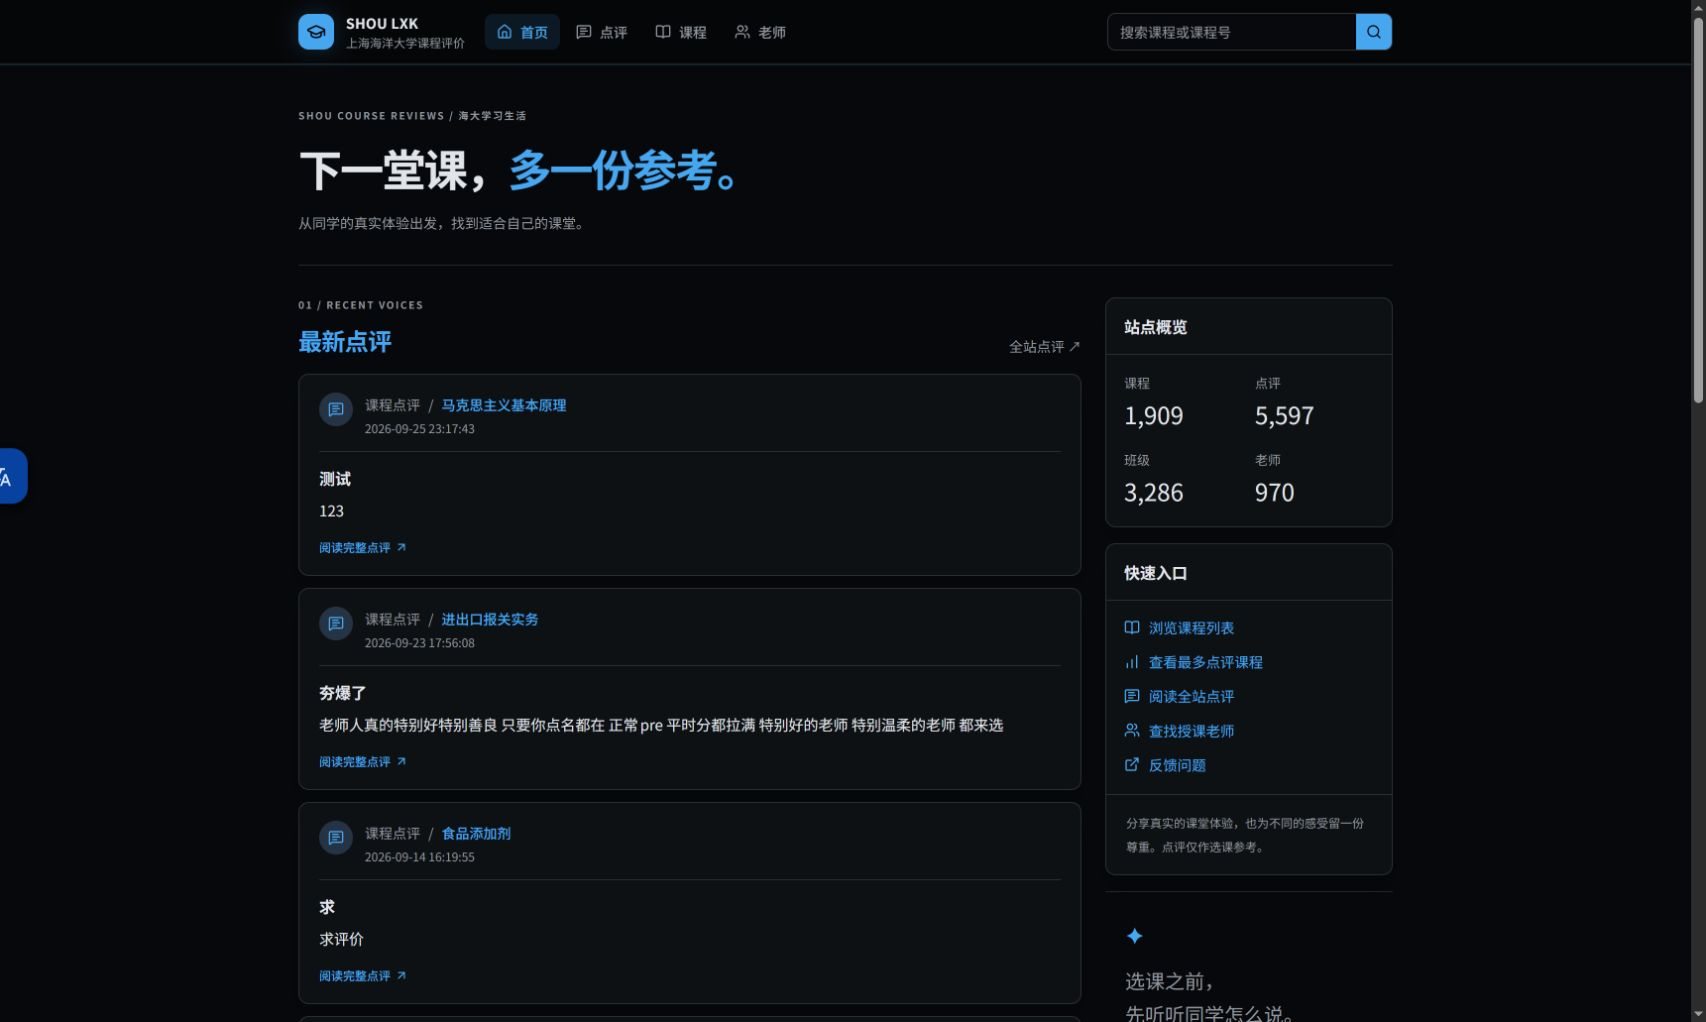
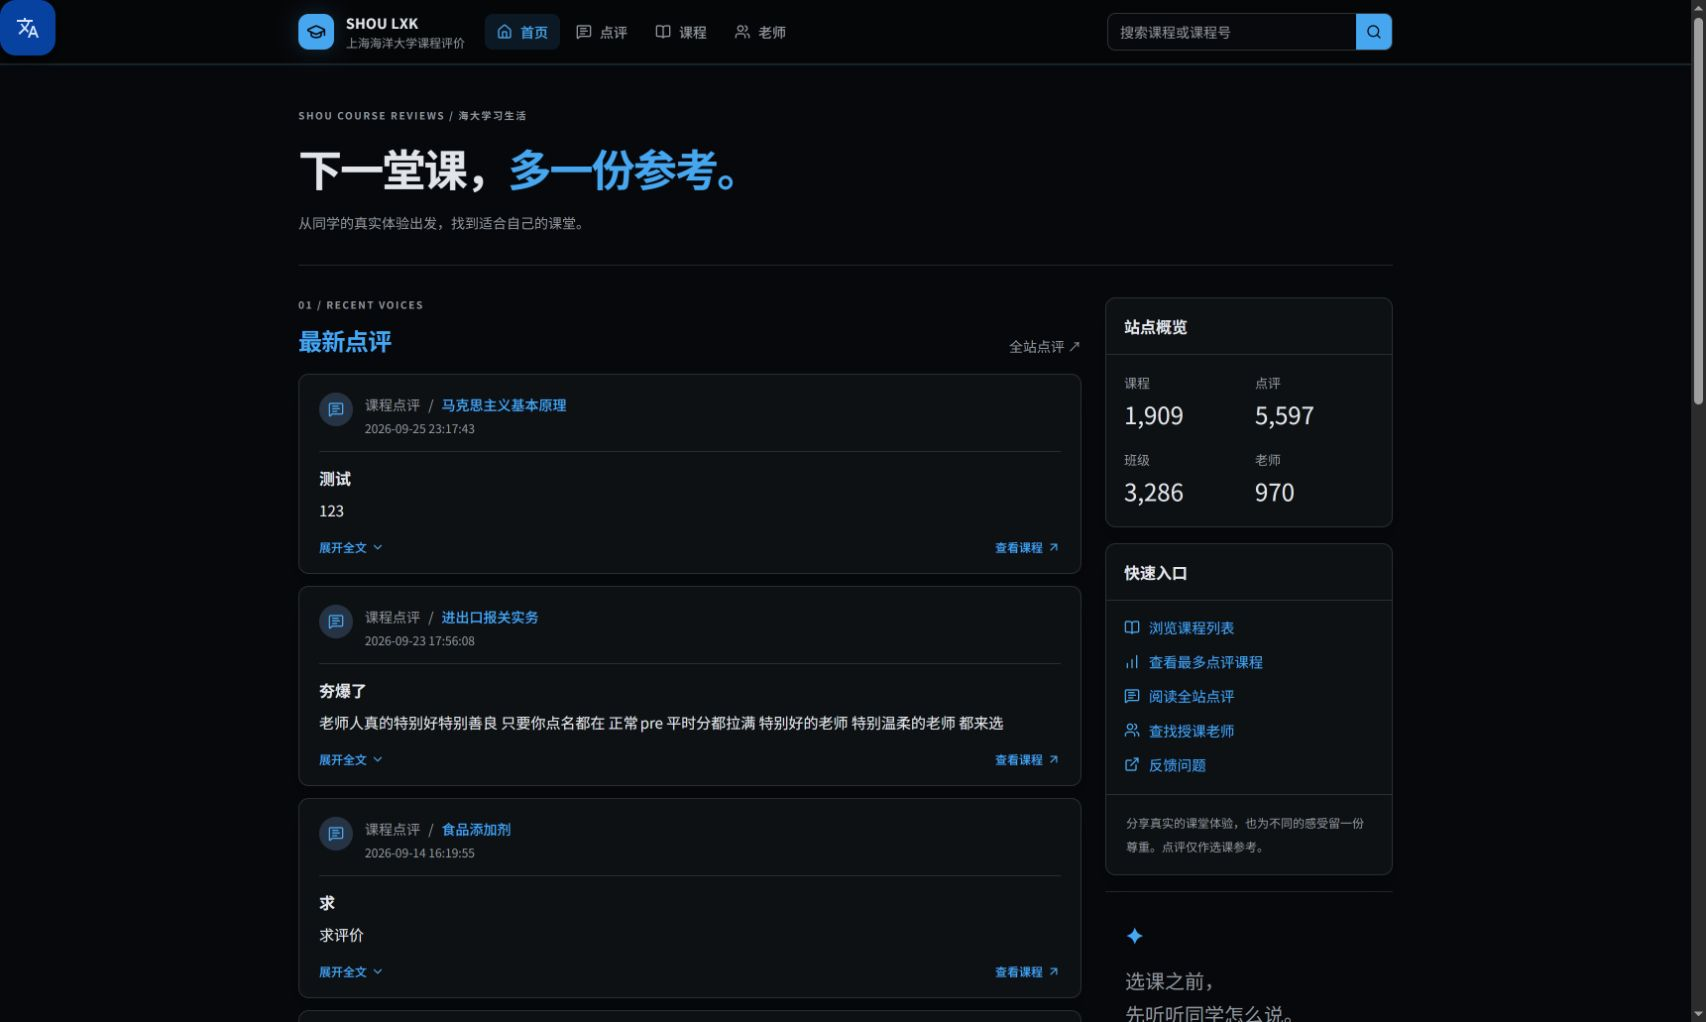
Expand review text in place instead of losing older search results

diff --git a/src/lib/components/review-card.svelte b/src/lib/components/review-card.svelte
@@ -1,7 +1,9 @@
 <script lang="ts">
-import { ArrowUpRight, MessageSquareText, UserRound } from "@lucide/svelte";
+import { ArrowUpRight, ChevronDown, MessageSquareText, UserRound } from "@lucide/svelte";
 import type { LatestReview } from "#lib/server/home-queries.js";
 let { review }: { review: LatestReview } = $props();
+let expanded = $state(false);
+const bodyId = $derived(`review-${review.review_type}-${review.id}-body`);
 const subject = $derived(review.review_type === "course" ? review.course_name : review.teacher_name);
 const href = $derived(
   review.review_type === "course"
@@ -28,9 +30,23 @@ const href = $derived(
   </div>
   <div class="review-content">
     {#if review.title}<h3 class="review-title text-base">{review.title}</h3>{/if}
-    <p class="line-clamp-4">{review.content}</p>
-    <a class="mt-4 inline-flex items-center gap-1 text-xs font-medium" {href}
-      >阅读完整点评 <ArrowUpRight class="size-3.5" aria-hidden="true" /></a
-    >
+    <p id={bodyId} class:line-clamp-4={!expanded}>{review.content}</p>
+    <div class="mt-4 flex flex-wrap items-center justify-between gap-3 text-xs font-medium">
+      <button
+        type="button"
+        class="inline-flex items-center gap-1 text-primary"
+        aria-expanded={expanded}
+        aria-controls={bodyId}
+        onclick={() => (expanded = !expanded)}
+      >
+        {expanded ? "收起全文" : "展开全文"}<ChevronDown
+          class={expanded ? "size-3.5 rotate-180" : "size-3.5"}
+          aria-hidden="true"
+        />
+      </button>
+      <a class="inline-flex items-center gap-1" {href}
+        >查看{review.review_type === "course" ? "课程" : "老师"}<ArrowUpRight class="size-3.5" aria-hidden="true" /></a
+      >
+    </div>
   </div>
 </article>

diff --git a/docs/D1_READ_BUDGET.md b/docs/D1_READ_BUDGET.md
@@ -113,7 +113,7 @@ pixi run pnpm benchmark:d1 --database .wrangler/state/v3/d1/miniflare-D1Database
 
 测试覆盖：最新评论双表交错/并列/空表、计数插入/删除/移动/回滚、48 组筛选排序与四个偏移的旧新一致性、页码规范化/越界/空结果、缓存跨参数命中/主机隔离/TTL/异常/失效竞态、课程和教师提交成功清缓存、Turnstile hostname/action 失败禁止写入。另一个独立 workerd 测试验证真实 Cache API 跨请求命中及写入后失效。Siteverify 网络返回在本地测试中模拟；未进行生产 Turnstile、生产缓存跨地区或实际计费验证。
 
-本次最终验证：`pixi run test` 8/8 通过，`pixi run check` 0 错误 / 0 警告，`pixi run lint`、`pixi run build` 和 `git diff --check` 均通过。本地实际数据库迁移记录为 `0001` 至 `0005`，`site_stats` 与上述数据量一致，`PRAGMA foreign_key_check` 返回空结果。测试有 Node 实验性 TypeScript stripping 提示，构建有终端颜色环境变量提示，均未导致失败。
+本次最终验证：`pixi run test` 11/11 通过，`pixi run check` 0 错误 / 0 警告，`pixi run lint`、`pixi run build` 和 `git diff --check` 均通过。本地实际数据库迁移记录为 `0001` 至 `0005`，`site_stats` 与上述数据量一致，`PRAGMA foreign_key_check` 返回空结果。测试有 Node 实验性 TypeScript stripping 提示，构建有终端颜色环境变量提示，均未导致失败。
 
 ## 计数维护
 
